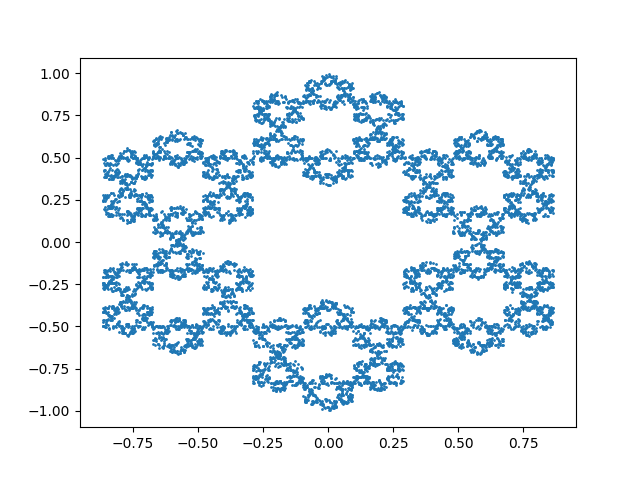
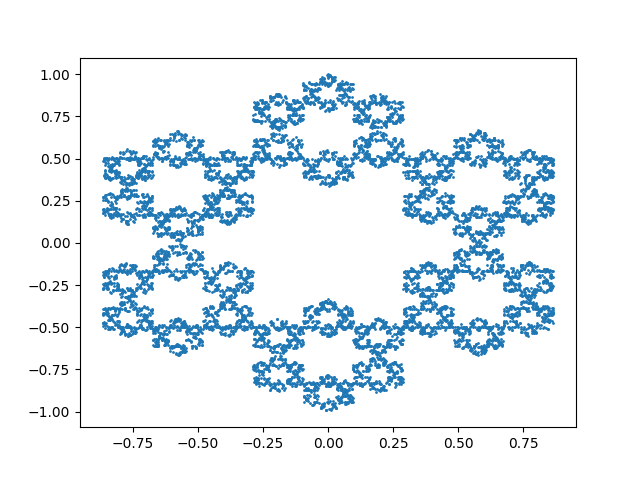
Maded compression ratio for hexagons a constant.

diff --git a/src/sierpinski_hexagon.py b/src/sierpinski_hexagon.py
@@ -4,5 +4,5 @@ from sierpinski_n_gon import sierpinski_m_gon
 
 if __name__ == "__main__":
     n = int(sys.argv[1])
-    compression_ratio = float(sys.argv[2])
+    compression_ratio = 0.333333333
     sierpinski_m_gon(n, 6, '../img/sierpinski_hexagon.png', compression_ratio)
